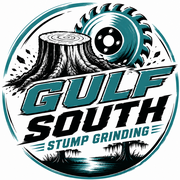
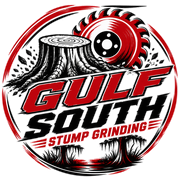
Rebrand from teal/orange to red/black/white
Replaces the teal (#1c747b) + orange-accent design system with a
single red (brand-500 #bb0a0f, sampled from the new logo) + black
(ink) + white palette, matching the official logo redesign and the
reference business-card mockup.

- New transparent-background logo (public/logo.png, brand_assets,
  favicon/apple-touch-icon regenerated)
- Renamed CSS tokens: teal-* / accent-* -> brand-* in globals.css
- CallButton is now black (secondary action), QuoteButton is red
  (primary action) -- previously both used to be a single hue family,
  this gives clearer visual hierarchy within red/black/white
- Header utility bar and city-page hero sections switched from dark
  teal to black to match

diff --git a/src/app/page.tsx b/src/app/page.tsx
@@ -59,7 +59,7 @@ export default function Home() {
       <section className="bg-ink-500 text-white">
         <Container className="py-20 sm:py-28 grid lg:grid-cols-2 gap-12 items-center">
           <div>
-            <p className="text-accent-400 font-semibold tracking-wide uppercase text-sm mb-4">
+            <p className="text-brand-400 font-semibold tracking-wide uppercase text-sm mb-4">
               Florida Parishes &amp; South Mississippi
             </p>
             <h1 className="font-heading font-bold text-4xl sm:text-5xl leading-tight">
@@ -79,7 +79,7 @@ export default function Home() {
           <div className="grid grid-cols-2 gap-4">
             {trustItems.map((item) => (
               <div key={item.label} className="rounded-lg bg-white/5 border border-white/10 p-5">
-                <p className="font-heading font-semibold text-teal-300">{item.label}</p>
+                <p className="font-heading font-semibold text-brand-300">{item.label}</p>
                 <p className="mt-1 text-sm text-white/70">{item.detail}</p>
               </div>
             ))}
@@ -101,13 +101,13 @@ export default function Home() {
               <Link
                 key={service.href}
                 href={service.href}
-                className="group rounded-xl border border-black/10 p-6 hover:border-teal-500 hover:shadow-md transition-all"
+                className="group rounded-xl border border-black/10 p-6 hover:border-brand-500 hover:shadow-md transition-all"
               >
-                <h3 className="font-heading font-semibold text-xl text-ink-500 group-hover:text-teal-600">
+                <h3 className="font-heading font-semibold text-xl text-ink-500 group-hover:text-brand-600">
                   {service.title}
                 </h3>
                 <p className="mt-2 text-sm text-ink-500/70">{service.description}</p>
-                <span className="mt-4 inline-block text-sm font-semibold text-teal-600">
+                <span className="mt-4 inline-block text-sm font-semibold text-brand-600">
                   Learn more →
                 </span>
               </Link>
@@ -117,13 +117,13 @@ export default function Home() {
       </section>
 
       {/* Process */}
-      <section className="py-20 bg-teal-50">
+      <section className="py-20 bg-brand-50">
         <Container>
           <h2 className="font-heading font-bold text-3xl text-ink-500">How It Works</h2>
           <div className="mt-10 grid sm:grid-cols-2 lg:grid-cols-4 gap-6">
             {steps.map((step, i) => (
               <div key={step.title}>
-                <div className="w-10 h-10 rounded-full bg-teal-500 text-white flex items-center justify-center font-heading font-bold">
+                <div className="w-10 h-10 rounded-full bg-brand-500 text-white flex items-center justify-center font-heading font-bold">
                   {i + 1}
                 </div>
                 <h3 className="mt-4 font-heading font-semibold text-lg text-ink-500">{step.title}</h3>
@@ -145,7 +145,7 @@ export default function Home() {
                 and South Mississippi.
               </p>
             </div>
-            <Link href="/service-areas" className="text-sm font-semibold text-teal-600 hover:text-teal-700">
+            <Link href="/service-areas" className="text-sm font-semibold text-brand-600 hover:text-brand-700">
               View all service areas →
             </Link>
           </div>
@@ -165,7 +165,7 @@ export default function Home() {
       </section>
 
       {/* FAQ preview */}
-      <section className="py-20 bg-teal-50">
+      <section className="py-20 bg-brand-50">
         <Container className="max-w-3xl">
           <h2 className="font-heading font-bold text-3xl text-ink-500">Common Questions</h2>
           <div className="mt-8 space-y-6">
@@ -176,7 +176,7 @@ export default function Home() {
               </div>
             ))}
           </div>
-          <Link href="/faq" className="mt-8 inline-block text-sm font-semibold text-teal-600 hover:text-teal-700">
+          <Link href="/faq" className="mt-8 inline-block text-sm font-semibold text-brand-600 hover:text-brand-700">
             See all FAQs →
           </Link>
         </Container>

diff --git a/src/components/Header.tsx b/src/components/Header.tsx
@@ -19,13 +19,13 @@ export default function Header() {
 
   return (
     <header className="sticky top-0 z-50 w-full">
-      <div className="hidden sm:flex items-center justify-center gap-2 bg-teal-900 text-teal-50 text-sm py-1.5 px-4">
+      <div className="hidden sm:flex items-center justify-center gap-2 bg-ink-500 text-white text-sm py-1.5 px-4">
         <span>Locally Owned</span>
-        <span aria-hidden className="text-teal-300">
+        <span aria-hidden className="text-brand-400">
           •
         </span>
         <span>Fully Insured</span>
-        <span aria-hidden className="text-teal-300">
+        <span aria-hidden className="text-brand-400">
           •
         </span>
         <span>Free, No-Obligation Quotes</span>
@@ -54,7 +54,7 @@ export default function Header() {
               <Link
                 key={link.href}
                 href={link.href}
-                className="text-sm font-medium text-ink-500/80 hover:text-teal-600 transition-colors"
+                className="text-sm font-medium text-ink-500/80 hover:text-brand-600 transition-colors"
               >
                 {link.label}
               </Link>
@@ -64,14 +64,14 @@ export default function Header() {
           <div className="flex items-center gap-3">
             <a
               href={`tel:${business.phoneE164}`}
-              className="hidden sm:inline-flex items-center gap-2 rounded-md bg-teal-500 hover:bg-teal-600 text-white font-semibold px-4 py-2.5 text-sm transition-colors"
+              className="hidden sm:inline-flex items-center gap-2 rounded-md bg-ink-500 hover:bg-ink-700 text-white font-semibold px-4 py-2.5 text-sm transition-colors"
             >
               <PhoneIcon />
               {business.phoneDisplay}
             </a>
             <Link
               href="/contact"
-              className="inline-flex items-center rounded-md bg-accent-500 hover:bg-accent-600 text-white font-semibold px-4 py-2.5 text-sm transition-colors"
+              className="inline-flex items-center rounded-md bg-brand-500 hover:bg-brand-600 text-white font-semibold px-4 py-2.5 text-sm transition-colors"
             >
               Free Quote
             </Link>
@@ -101,7 +101,7 @@ export default function Header() {
             ))}
             <a
               href={`tel:${business.phoneE164}`}
-              className="mt-3 inline-flex items-center justify-center gap-2 rounded-md bg-teal-500 text-white font-semibold px-4 py-3 text-sm"
+              className="mt-3 inline-flex items-center justify-center gap-2 rounded-md bg-ink-500 text-white font-semibold px-4 py-3 text-sm"
             >
               <PhoneIcon />
               Call {business.phoneDisplay}

diff --git a/src/components/Footer.tsx b/src/components/Footer.tsx
@@ -23,17 +23,17 @@ export default function Footer() {
             Parishes and South Mississippi.
           </p>
           <div className="mt-4 text-sm space-y-1">
-            <a href={`tel:${business.phoneE164}`} className="block font-semibold hover:text-teal-300">
+            <a href={`tel:${business.phoneE164}`} className="block font-semibold hover:text-brand-300">
               {business.phoneDisplay}
             </a>
-            <a href={`mailto:${business.email}`} className="block text-white/70 hover:text-teal-300">
+            <a href={`mailto:${business.email}`} className="block text-white/70 hover:text-brand-300">
               {business.email}
             </a>
           </div>
         </div>
 
         <div>
-          <h3 className="font-heading font-semibold text-sm uppercase tracking-wide text-teal-300">
+          <h3 className="font-heading font-semibold text-sm uppercase tracking-wide text-brand-300">
             Services
           </h3>
           <ul className="mt-4 space-y-2 text-sm text-white/80">
@@ -48,7 +48,7 @@ export default function Footer() {
         </div>
 
         <div>
-          <h3 className="font-heading font-semibold text-sm uppercase tracking-wide text-teal-300">
+          <h3 className="font-heading font-semibold text-sm uppercase tracking-wide text-brand-300">
             Louisiana Service Areas
           </h3>
           <ul className="mt-4 space-y-3 text-sm text-white/80">
@@ -70,7 +70,7 @@ export default function Footer() {
         </div>
 
         <div>
-          <h3 className="font-heading font-semibold text-sm uppercase tracking-wide text-teal-300">
+          <h3 className="font-heading font-semibold text-sm uppercase tracking-wide text-brand-300">
             Mississippi Service Areas
           </h3>
           <ul className="mt-4 space-y-3 text-sm text-white/80">
@@ -89,7 +89,7 @@ export default function Footer() {
               </li>
             ))}
           </ul>
-          <Link href="/service-areas" className="mt-4 inline-block text-sm font-semibold text-accent-400 hover:text-accent-500">
+          <Link href="/service-areas" className="mt-4 inline-block text-sm font-semibold text-brand-400 hover:text-brand-500">
             View all service areas →
           </Link>
         </div>

diff --git a/src/components/QuoteForm.tsx b/src/components/QuoteForm.tsx
@@ -42,7 +42,7 @@ export default function QuoteForm() {
         <select
           id="serviceType"
           name="serviceType"
-          className="w-full rounded-md border border-black/15 px-3.5 py-2.5 text-ink-500 focus:outline-none focus:ring-2 focus:ring-teal-500"
+          className="w-full rounded-md border border-black/15 px-3.5 py-2.5 text-ink-500 focus:outline-none focus:ring-2 focus:ring-brand-500"
           defaultValue="Residential"
         >
           <option>Residential</option>
@@ -59,17 +59,17 @@ export default function QuoteForm() {
           name="details"
           rows={4}
           placeholder="Number of stumps, approximate size, and access to the area (e.g. fenced backyard, tight side gate)"
-          className="w-full rounded-md border border-black/15 px-3.5 py-2.5 text-ink-500 focus:outline-none focus:ring-2 focus:ring-teal-500"
+          className="w-full rounded-md border border-black/15 px-3.5 py-2.5 text-ink-500 focus:outline-none focus:ring-2 focus:ring-brand-500"
         />
       </div>
       <button
         type="submit"
-        className="w-full sm:w-auto inline-flex items-center justify-center rounded-md bg-accent-500 hover:bg-accent-600 text-white font-semibold px-6 py-3.5 transition-colors"
+        className="w-full sm:w-auto inline-flex items-center justify-center rounded-md bg-brand-500 hover:bg-brand-600 text-white font-semibold px-6 py-3.5 transition-colors"
       >
         Send Quote Request
       </button>
       {submitted && (
-        <p className="text-sm text-teal-600">
+        <p className="text-sm text-brand-600">
           Opening your email app to send this request. If nothing opens, call or text us directly instead.
         </p>
       )}
@@ -98,7 +98,7 @@ function Field({
         name={name}
         type={type}
         required={required}
-        className="w-full rounded-md border border-black/15 px-3.5 py-2.5 text-ink-500 focus:outline-none focus:ring-2 focus:ring-teal-500"
+        className="w-full rounded-md border border-black/15 px-3.5 py-2.5 text-ink-500 focus:outline-none focus:ring-2 focus:ring-brand-500"
       />
     </div>
   );

diff --git a/src/app/globals.css b/src/app/globals.css
@@ -4,42 +4,35 @@
   --background: #ffffff;
   --foreground: #10181a;
 
-  /* Brand palette sampled directly from the logo. */
-  --color-teal-50: #eaf4f4;
-  --color-teal-100: #cfe6e6;
-  --color-teal-300: #6ba9ac;
-  --color-teal-500: #1c747b;
-  --color-teal-600: #175f65;
-  --color-teal-700: #124a4f;
-  --color-teal-900: #0d3236;
+  /* Brand palette sampled directly from the 2026-09 red/black/white logo redesign. */
+  --color-brand-50: #fdecec;
+  --color-brand-100: #f8d0d2;
+  --color-brand-300: #e2727a;
+  --color-brand-400: #e2262d;
+  --color-brand-500: #bb0a0f;
+  --color-brand-600: #970810;
+  --color-brand-700: #7a060c;
+  --color-brand-900: #3d0407;
 
   --color-ink-500: #10181a;
   --color-ink-700: #0a1112;
-
-  /* Warm accent for CTAs — complementary to teal, reads as "act now". */
-  --color-accent-400: #fb923c;
-  --color-accent-500: #f2792a;
-  --color-accent-600: #db5f12;
 }
 
 @theme inline {
   --color-background: var(--background);
   --color-foreground: var(--foreground);
 
-  --color-teal-50: var(--color-teal-50);
-  --color-teal-100: var(--color-teal-100);
-  --color-teal-300: var(--color-teal-300);
-  --color-teal-500: var(--color-teal-500);
-  --color-teal-600: var(--color-teal-600);
-  --color-teal-700: var(--color-teal-700);
-  --color-teal-900: var(--color-teal-900);
+  --color-brand-50: var(--color-brand-50);
+  --color-brand-100: var(--color-brand-100);
+  --color-brand-300: var(--color-brand-300);
+  --color-brand-400: var(--color-brand-400);
+  --color-brand-500: var(--color-brand-500);
+  --color-brand-600: var(--color-brand-600);
+  --color-brand-700: var(--color-brand-700);
+  --color-brand-900: var(--color-brand-900);
 
   --color-ink-500: var(--color-ink-500);
   --color-ink-700: var(--color-ink-700);
-
-  --color-accent-400: var(--color-accent-400);
-  --color-accent-500: var(--color-accent-500);
-  --color-accent-600: var(--color-accent-600);
 
   --font-sans: var(--font-inter);
   --font-heading: var(--font-oswald);

diff --git a/src/app/service-areas/page.tsx b/src/app/service-areas/page.tsx
@@ -42,7 +42,7 @@ export default function ServiceAreasPage() {
                 <ul className="mt-2 space-y-1">
                   {area.cities.map((c) => (
                     <li key={c.slug}>
-                      <Link href={`/service-areas/${c.slug}`} className="text-sm text-teal-600 hover:text-teal-700">
+                      <Link href={`/service-areas/${c.slug}`} className="text-sm text-brand-600 hover:text-brand-700">
                         Stump Grinding in {c.name}
                       </Link>
                     </li>
@@ -62,7 +62,7 @@ export default function ServiceAreasPage() {
                 <ul className="mt-2 space-y-1">
                   {area.cities.map((c) => (
                     <li key={c.slug}>
-                      <Link href={`/service-areas/${c.slug}`} className="text-sm text-teal-600 hover:text-teal-700">
+                      <Link href={`/service-areas/${c.slug}`} className="text-sm text-brand-600 hover:text-brand-700">
                         Stump Grinding in {c.name}
                       </Link>
                     </li>

diff --git a/src/components/CtaButtons.tsx b/src/components/CtaButtons.tsx
@@ -5,7 +5,7 @@ export function CallButton({ className = "" }: { className?: string }) {
   return (
     <a
       href={`tel:${business.phoneE164}`}
-      className={`inline-flex items-center justify-center gap-2 rounded-md bg-teal-500 hover:bg-teal-600 text-white font-semibold px-6 py-3.5 transition-colors ${className}`}
+      className={`inline-flex items-center justify-center gap-2 rounded-md bg-ink-500 hover:bg-ink-700 text-white font-semibold px-6 py-3.5 transition-colors ${className}`}
     >
       Call {business.phoneDisplay}
     </a>
@@ -22,7 +22,7 @@ export function QuoteButton({
   return (
     <Link
       href="/contact"
-      className={`inline-flex items-center justify-center gap-2 rounded-md bg-accent-500 hover:bg-accent-600 text-white font-semibold px-6 py-3.5 transition-colors ${className}`}
+      className={`inline-flex items-center justify-center gap-2 rounded-md bg-brand-500 hover:bg-brand-600 text-white font-semibold px-6 py-3.5 transition-colors ${className}`}
     >
       {label}
     </Link>

diff --git a/src/app/service-areas/[city]/page.tsx b/src/app/service-areas/[city]/page.tsx
@@ -109,7 +109,7 @@ export default async function CityPage({
         </Container>
       </section>
 
-      <section className="py-20 bg-teal-50">
+      <section className="py-20 bg-brand-50">
         <Container className="max-w-3xl">
           <h2 className="font-heading font-bold text-3xl text-ink-500">Local FAQs</h2>
           <div className="mt-8 space-y-6">
@@ -134,7 +134,7 @@ export default async function CityPage({
                 <Link
                   key={c.slug}
                   href={`/service-areas/${c.slug}`}
-                  className="rounded-md border border-black/10 px-4 py-2 text-sm font-medium text-ink-500 hover:border-teal-500 hover:text-teal-600"
+                  className="rounded-md border border-black/10 px-4 py-2 text-sm font-medium text-ink-500 hover:border-brand-500 hover:text-brand-600"
                 >
                   {c.name}
                 </Link>

diff --git a/src/app/stump-grinding/page.tsx b/src/app/stump-grinding/page.tsx
@@ -93,7 +93,7 @@ export default function StumpGrindingPage() {
         </Container>
       </section>
 
-      <section className="py-20 bg-teal-50">
+      <section className="py-20 bg-brand-50">
         <Container>
           <h2 className="font-heading font-bold text-3xl text-ink-500">What&apos;s Included</h2>
           <div className="mt-10 grid sm:grid-cols-2 gap-6">
@@ -118,7 +118,7 @@ export default function StumpGrindingPage() {
               </div>
             ))}
           </div>
-          <Link href="/faq" className="mt-6 inline-block text-sm font-semibold text-teal-600 hover:text-teal-700">
+          <Link href="/faq" className="mt-6 inline-block text-sm font-semibold text-brand-600 hover:text-brand-700">
             See all FAQs →
           </Link>
         </Container>

diff --git a/src/app/contact/page.tsx b/src/app/contact/page.tsx
@@ -45,7 +45,7 @@ export default function ContactPage() {
 
             <div className="mt-8 text-sm text-ink-500/70 space-y-1">
               <p className="font-semibold text-ink-500">Email</p>
-              <a href={`mailto:${business.email}`} className="hover:text-teal-600">
+              <a href={`mailto:${business.email}`} className="hover:text-brand-600">
                 {business.email}
               </a>
             </div>

diff --git a/src/app/commercial/page.tsx b/src/app/commercial/page.tsx
@@ -71,7 +71,7 @@ export default function CommercialPage() {
         </Container>
       </section>
 
-      <section className="py-20 bg-teal-50">
+      <section className="py-20 bg-brand-50">
         <Container className="max-w-3xl">
           <h2 className="font-heading font-bold text-3xl text-ink-500">Working With Us</h2>
           <p className="mt-4 text-ink-500/70 leading-relaxed">

diff --git a/src/app/residential/page.tsx b/src/app/residential/page.tsx
@@ -71,7 +71,7 @@ export default function ResidentialPage() {
         </Container>
       </section>
 
-      <section className="py-20 bg-teal-50">
+      <section className="py-20 bg-brand-50">
         <Container className="max-w-3xl">
           <h2 className="font-heading font-bold text-3xl text-ink-500">What to Expect</h2>
           <ol className="mt-6 space-y-4 text-ink-500/80">
